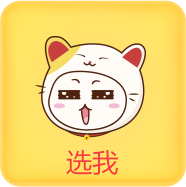
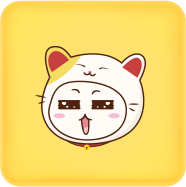
团粉圈微信签到 图标修改、抽奖预防多次点击

Changed region(s): [[0.1882, 0.1872, 0.8065, 0.9358]]

diff --git a/activity/weixinSign20161222/js/lottery.js b/activity/weixinSign20161222/js/lottery.js
@@ -87,7 +87,13 @@
     })();
 
     //抽奖开始
-    pageEl.on('click', ".lotbtn", function() {
+    pageEl.on('click', ".lotbtn", function(e) {
+        var currentTarget = $(e.currentTarget);
+        if(currentTarget.hasClass("disable")) { //不可抽奖状态
+            return;
+        }
+        
+        currentTarget.addClass("disable");
         $.ajax({
             url: Util.basePath + "/app/index.php",
             type: "POST",
@@ -106,22 +112,22 @@
                     var prizeType = 0;
                     if (data.is_luck == "1") { //中奖
                         switch (data.face_value) {
-                            case 50: //50威望
+                            case "50": //50威望
                                 prizeType = 0;
                                 break;
-                            case 80: //80威望
+                            case "80": //80威望
                                 prizeType = 5;
                                 break;
-                            case 100: //100威望
+                            case "100": //100威望
                                 prizeType = 2;
                                 break;
-                            case 3: //3元红包
+                            case "3": //3元红包
                                 prizeType = 1;
                                 break;
-                            case 5: //5元红包
+                            case "5": //5元红包
                                 prizeType = 4;
                                 break;
-                            case 10: //10元红包
+                            case "10": //10元红包
                                 prizeType = 7;
                                 break;
                         }
@@ -144,13 +150,16 @@
                             name: "关了吧"
                         },
                     });
+                    pageEl.find(".lotbtn").removeClass("disable");
                 }
 
             },
             error: function() {
-
+                Util.alertServeError();
+                pageEl.find(".lotbtn").removeClass("disable");
             },
             complete: function() {
+                
                 $(".loading").hide();
             }
         });
@@ -201,6 +210,7 @@
                 });
                 break;
         }
+        pageEl.find(".lotbtn").removeClass("disable");
     }
 
     // 关闭弹窗
